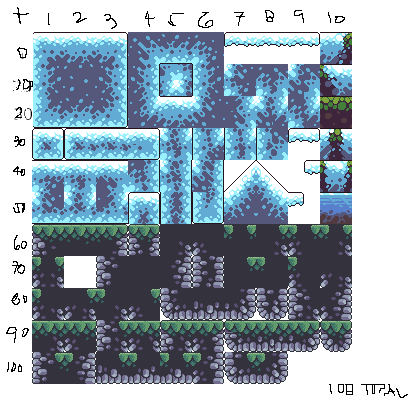
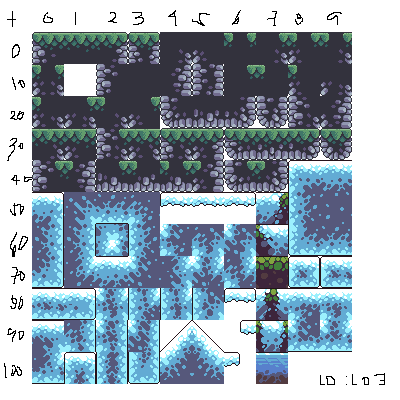
added tile list for levels

diff --git a/src/Levels/levelManager.java b/src/Levels/levelManager.java
@@ -37,18 +37,18 @@ public class levelManager {
         level = new BufferedImage[108];
         int currIndex = 0;
 
-        // Atlas2
-        for(int j = 0; j < 6; j++){
-            for (int i = 0; i < 10; i++){
-                level[currIndex] = img2.getSubimage(i*32, j*32, 32, 32);
-                currIndex++;
-            }
-        }
-
         // Atlas1
         for(int j = 0; j < 4; j++){
             for (int i = 0; i < 12; i++){
                 level[currIndex] = img.getSubimage(i*32, j*32, 32, 32);
+                currIndex++;
+            }
+        }
+
+        // Atlas2
+        for(int j = 0; j < 6; j++){
+            for (int i = 0; i < 10; i++){
+                level[currIndex] = img2.getSubimage(i*32, j*32, 32, 32);
                 currIndex++;
             }
         }

diff --git a/src/utils/helpMethods.java b/src/utils/helpMethods.java
@@ -42,7 +42,7 @@ public class helpMethods {
 
         int val = lvl[(int)yIndex][(int)xIndex];
 
-        if(val >= 48 || val < 0 || val != 11){
+        if(val >= 108 || val < 0 || val != 11){
             return true;
         }
         return false;
@@ -93,7 +93,7 @@ public class helpMethods {
                 Color color = new Color(img.getRGB(i,j));
                 int val = color.getRed();
                 if(val >= 108){
-                    val = 72;
+                    val = 11;
                 }
                 lvl[j][i] = val;
             }
